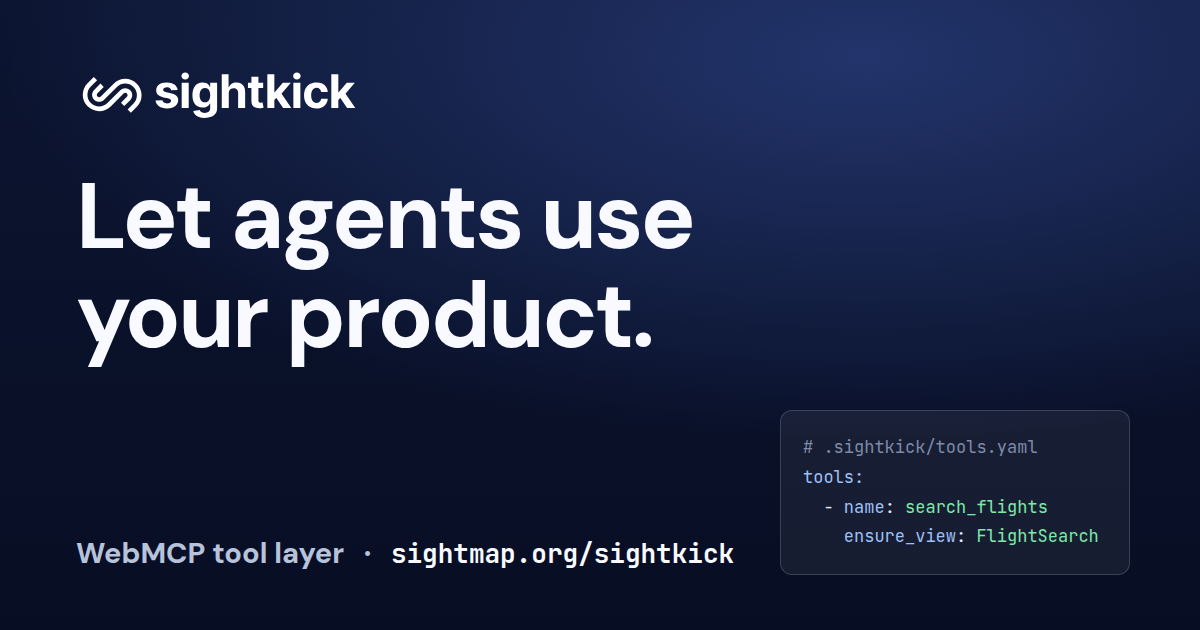
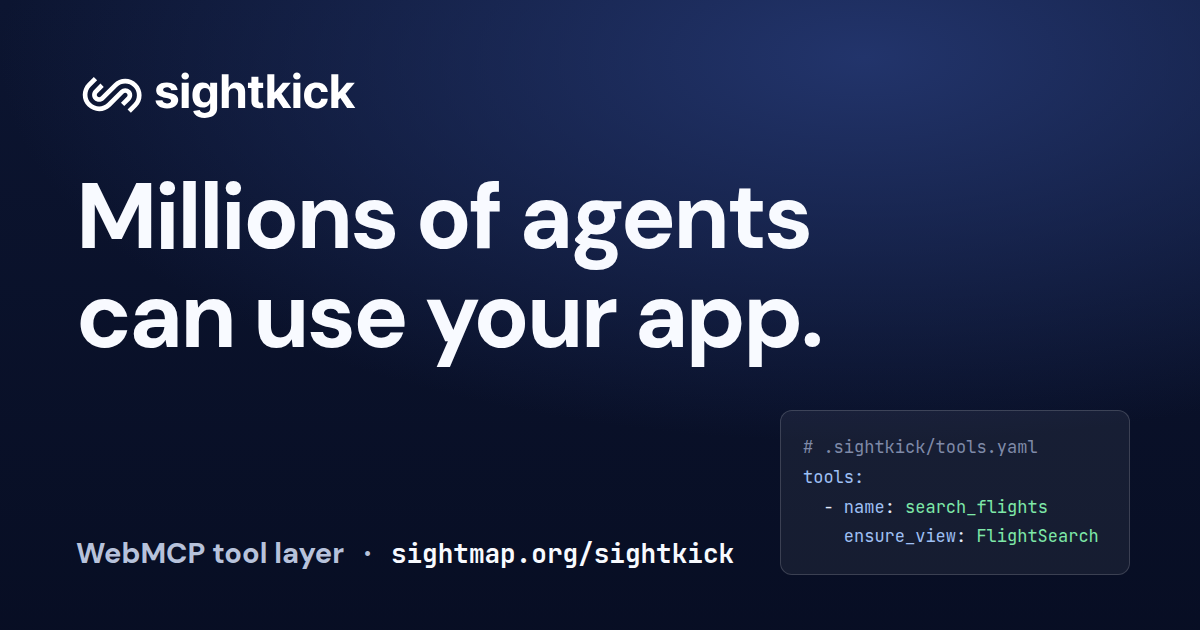
web(sightkick): bolder hero — millions of agents can use your app — and a clients row
The h1 states the claim outright, the sub keeps the mechanism and the Atlas,
and a row under the CTAs names the agent browsers and assistants that read
WebMCP off a page. Names rather than logos: a logo row needs each owner's
asset and permission. The OG card and alt text follow the headline.

Claude-Session: https://claude.ai/code/session_01NpEUDK1MADpEDitJ3Px7D4

Changed region(s): [[0.0617, 0.2714, 0.6783, 0.6032]]

diff --git a/web/src/pages/Sightkick.tsx b/web/src/pages/Sightkick.tsx
@@ -46,6 +46,11 @@ const AGENT_PROMPT = `Make this app usable by agents with sightmap + sightkick, 
    https://sightmap.org/atlas/<host with dots as dashes> once reviewed. Include
    anything that failed with its actual error text.`
 
+// Agent browsers and assistants that read WebMCP tools off a page. Names, not
+// logos: a logo row needs each owner's asset and permission, and this list
+// changes faster than either.
+const AGENT_CLIENTS = ['Chrome', 'Edge', 'ChatGPT', 'Instinct', 'Town', 'Muse', 'Grok']
+
 const USE_CASES: { tag: string; title: string; body: React.ReactNode }[] = [
   {
     tag: 'testing',
@@ -165,17 +170,17 @@ export default function Sightkick() {
         <div className="container sk-hero__body">
           <SightkickLogo className="sk-hero__logo" />
           <h1>
-            Let agents use your product.<br className="hidden md:inline" />{' '}
-            Then list it in the Atlas.
+            Millions of agents can use<br className="hidden md:inline" />{' '}
+            your app. Starting now.
           </h1>
           <p className="sk-hero__sub">
             One prompt to your coding agent. It maps your app, compiles a{' '}
             <a href="https://webmachinelearning.github.io/webmcp/" target="_blank" rel="noreferrer">
               WebMCP
             </a>{' '}
-            tool layer with Sightkick, and checks the tools on the deployed page. Then it submits
-            your site to the <a href="/atlas">Atlas</a>. There is no marketplace to apply to: the
-            tools ship with your pages, and any agent that opens your site can call{' '}
+            tool layer with Sightkick, checks the tools on the deployed page, and lists your site
+            in the <a href="/atlas">Atlas</a>. No marketplace to apply to: the tools ship with
+            your pages, and every agent that opens your site can call{' '}
             <code>search_flights(origin, destination, date)</code> instead of hunting for the
             search box.
           </p>
@@ -208,6 +213,14 @@ export default function Sightkick() {
             is a few tools over two mapped pages. You end with a <code>webmcp.txt</code> on your
             own domain and, once a maintainer has reviewed it, a page in the Atlas.
           </p>
+          <div className="sk-hero__clients" data-component="SightkickClients">
+            <span className="sk-hero__clients-label">Read by the agents in</span>
+            <ul>
+              {AGENT_CLIENTS.map((c) => (
+                <li key={c}>{c}</li>
+              ))}
+            </ul>
+          </div>
         </div>
       </section>
 

diff --git a/web/src/sightkick.css b/web/src/sightkick.css
@@ -508,3 +508,38 @@
   color: var(--text-dim);
 }
 .sk-artifacts { margin-top: 0.9rem; }
+
+/* The clients row under the hero note: text marks, one per agent that reads
+   WebMCP, in the same mono the rest of the page uses for names. */
+.sk-hero__clients {
+  display: flex;
+  flex-wrap: wrap;
+  align-items: center;
+  gap: 0.6rem 0.9rem;
+  margin-top: 1.75rem;
+}
+.sk-hero__clients-label {
+  font-family: var(--mono);
+  font-size: 0.72rem;
+  letter-spacing: 0.06em;
+  text-transform: uppercase;
+  color: var(--sk-body, var(--text-dim));
+  opacity: 0.8;
+}
+.sk-hero__clients ul {
+  list-style: none;
+  margin: 0;
+  padding: 0;
+  display: flex;
+  flex-wrap: wrap;
+  gap: 0.5rem;
+}
+.sk-hero__clients li {
+  font-family: var(--mono);
+  font-size: 0.8rem;
+  font-weight: 600;
+  padding: 0.3rem 0.7rem;
+  border: 1px solid rgba(255, 255, 255, 0.18);
+  border-radius: 100px;
+  color: #e4eafa;
+}

diff --git a/web/scripts/lib/site.ts b/web/scripts/lib/site.ts
@@ -58,7 +58,7 @@ export const BUILDING_DESCRIPTION =
 // The /sightkick companion page: the WebMCP tool layer compiled from a corpus.
 // Read by scripts/prerender.tsx, src/pages/Sightkick.tsx, and the sitemap /
 // llms.txt generators.
-export const SIGHTKICK_TITLE = `Sightkick — WebMCP tools for your app, on your app`
+export const SIGHTKICK_TITLE = `Sightkick — millions of agents can use your app`
 export const SIGHTKICK_DESCRIPTION =
   'One prompt maps your app and compiles a WebMCP tool layer with Sightkick, so any agent that opens your site calls a named action instead of guessing.'
 export const postTitle = (title: string): string => `${title} — ${SITE_NAME}`

diff --git a/web/scripts/prerender.tsx b/web/scripts/prerender.tsx
@@ -238,7 +238,7 @@ const DEFAULT_IMAGE_ALT = `${SITE_NAME}: Runtime context for agents using your w
 
 // Alt text for the /sightkick card (public/sightkick/og-image.png, rendered
 // from og/sightkick-card.html), which carries that page's own headline.
-const SIGHTKICK_IMAGE_ALT = 'Sightkick: Let agents use your product.'
+const SIGHTKICK_IMAGE_ALT = 'Sightkick: Millions of agents can use your app.'
 
 // Builds the `<script id="__SIGHTMAP_POST__">` tag that inlines a post's
 // rendered HTML as JSON so the client can seed hydration from it (see

diff --git a/web/og/sightkick-card.html b/web/og/sightkick-card.html
@@ -42,7 +42,7 @@
   .c-str { color: #7ee8a8; } .c-text { color: #e4eafa; }
 </style>
 <img class="logo" src="sightkick-lockup.svg" alt="sightkick">
-<h1>Let agents use<br>your product.</h1>
+<h1>Millions of agents<br>can use your app.</h1>
 <div class="footer"><span class="label">WebMCP tool layer</span> · <span class="site">sightmap.org/sightkick</span></div>
 <div class="chip"><span class="c-com"># .sightkick/tools.yaml</span>
 <span class="c-key">tools:</span>
